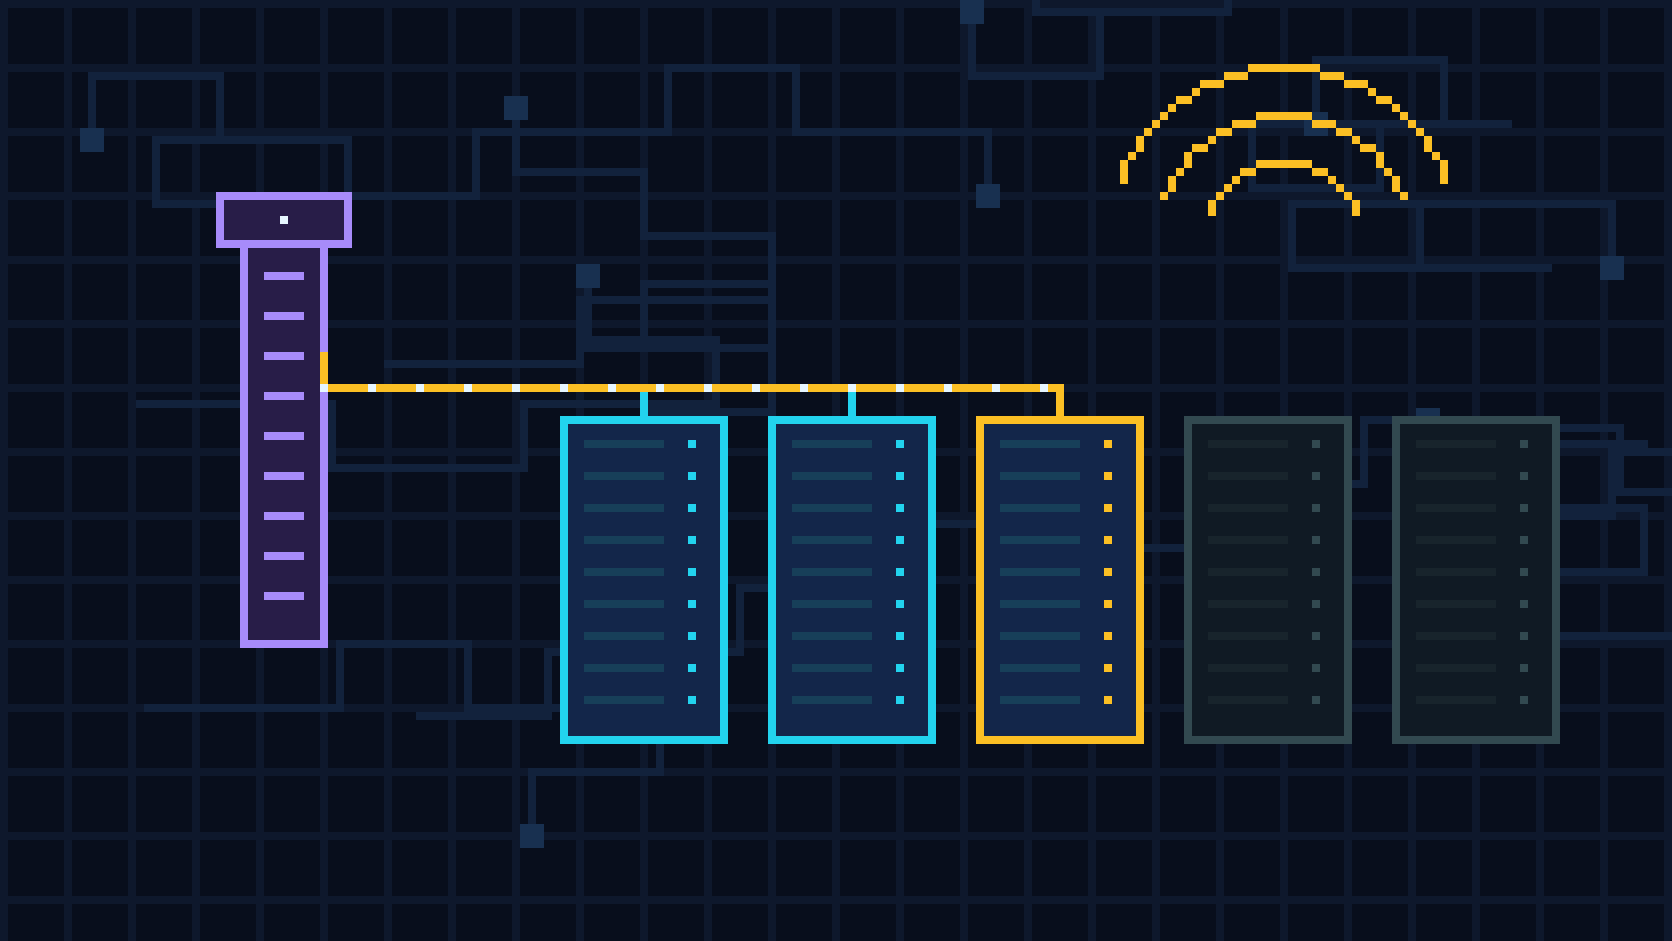
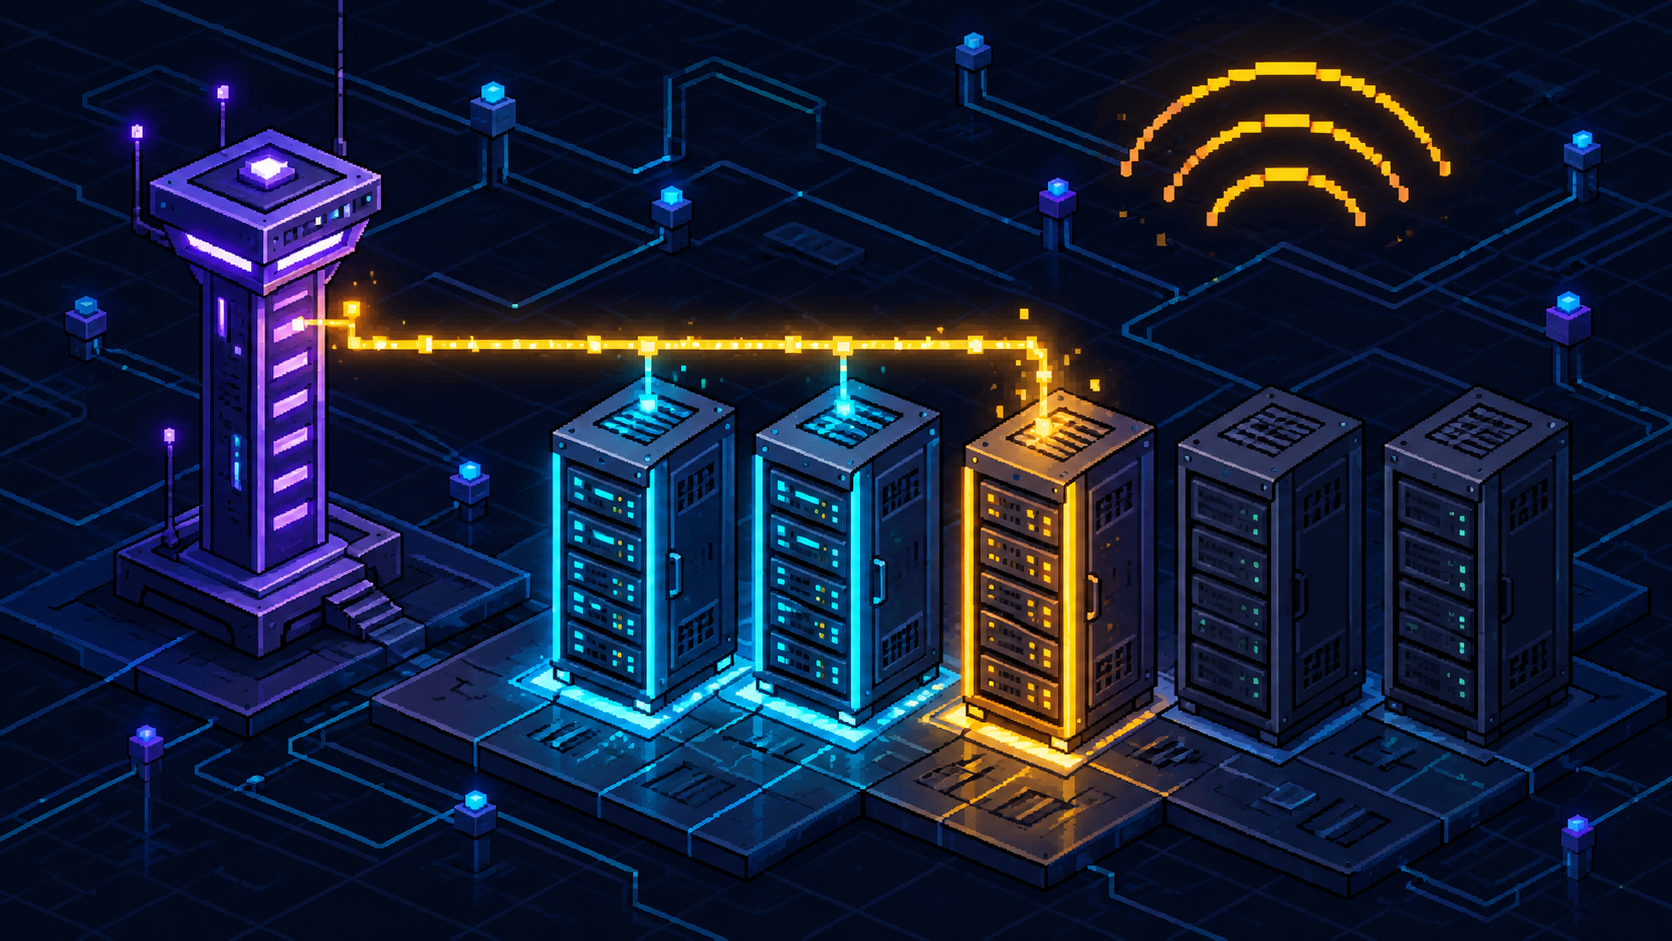
Refresh vCluster series pixel-art covers

diff --git a/content/posts/vcluster-private-nodes-auto-nodes-bare-metal.md b/content/posts/vcluster-private-nodes-auto-nodes-bare-metal.md
@@ -14,14 +14,14 @@ ShowToc: true
 TocOpen: false
 ---
 
-The [first post](/posts/what-is-vcluster-virtual-kubernetes-clusters/) ended on private nodes: machines that join a tenant's own control plane, with nothing shared at the node level.
-
-That raises the practical question. Who finds the machine, installs it, and joins it?
-
 ```text
 Private nodes = the tenant owns real machines, joined straight to its own API
 Auto Nodes    = the Platform orders, installs and joins those machines for you
 ```
+
+The [first post](/posts/what-is-vcluster-virtual-kubernetes-clusters/) ended on private nodes: machines that join a tenant's own control plane, with nothing shared at the node level.
+
+That raises the practical question. Who finds the machine, installs it, and joins it?
 
 This post follows one request from "tenant wants a GPU server" to "node is Ready". The [lab post](/posts/vcluster-bare-metal-gpu-tenant-metal3/) shows the same flow running, with real output.
 

diff --git a/static/images/posts/vcluster-bare-metal/cover-prompt.md b/static/images/posts/vcluster-bare-metal/cover-prompt.md
@@ -1,0 +1,3 @@
+Generated with the built-in imagegen tool using the previous cover as a reference.
+
+Use case: stylized-concept. Asset type: blog cover, landscape 1672 x 941 PNG. Reference image: existing cover concept and palette, redesign with richer cinematic pixel art. Scene: A floating violet control plane above two physical server racks connected by amber cables, one CPU rack and one GPU rack containing four clearly visible glowing cyan accelerator cards. Visually express a tenant receiving its own bare-metal GPU servers. Style: polished 16-bit isometric pixel-art illustration, crisp pixels, dimensional server hardware, carefully composed poster-like landscape, deep midnight-blue background, subtle circuit traces, cyan violet amber illumination, atmospheric but legible at thumbnail scale. No text, letters, numerals, logos, watermark, borders, or panels. Preserve conceptual relationships and established palette. Generate one finished landscape cover.

diff --git a/static/images/posts/vcluster-auto-nodes/cover-prompt.md b/static/images/posts/vcluster-auto-nodes/cover-prompt.md
@@ -1,0 +1,3 @@
+Generated with the built-in imagegen tool using the previous cover as a reference.
+
+Use case: stylized-concept. Asset type: blog cover, landscape 1672 x 941 PNG. Reference image: existing cover concept and palette, redesign with richer cinematic pixel art. Scene: A violet control tower sending an amber provisioning beam toward a pool of physical server racks, two machines lighting up bright cyan, one in the process of powering on in amber, and two dark idle racks. Visually express automatic server allocation. Style: polished 16-bit isometric pixel-art illustration, crisp pixels, dimensional server hardware, carefully composed poster-like landscape, deep midnight-blue background, subtle circuit traces, cyan violet amber illumination, atmospheric but legible at thumbnail scale. No text, letters, numerals, logos, watermark, borders, or panels. Preserve conceptual relationships and established palette. Generate one finished landscape cover.

diff --git a/static/images/posts/vcluster-basics/cover-prompt.md b/static/images/posts/vcluster-basics/cover-prompt.md
@@ -1,0 +1,3 @@
+Generated with the built-in imagegen tool using the previous cover as a reference.
+
+Use case: stylized-concept. Asset type: blog cover, landscape 1672 x 941 PNG. Reference image: existing cover concept and palette, redesign with richer cinematic pixel art. Scene: Three small independent glowing Kubernetes-style control towers, one cyan, one violet, one amber, each linked to its own two worker cubes, all hosted within one large server rack. Visually express independent tenant clusters on shared infrastructure. Style: polished 16-bit isometric pixel-art illustration, crisp pixels, dimensional server hardware, carefully composed poster-like landscape, deep midnight-blue background, subtle circuit traces, cyan violet amber illumination, atmospheric but legible at thumbnail scale. No text, letters, numerals, logos, watermark, borders, or panels. Preserve conceptual relationships and established palette. Generate one finished landscape cover.

diff --git a/content/posts/what-is-vcluster-virtual-kubernetes-clusters.md b/content/posts/what-is-vcluster-virtual-kubernetes-clusters.md
@@ -14,12 +14,12 @@ ShowToc: true
 TocOpen: false
 ---
 
-Every platform team hits the same question sooner or later: when a new team or customer arrives, do they get a namespace or a whole cluster?
-
 ```text
 Namespace per tenant = cheap, but one shared API, one set of CRDs
 vCluster per tenant  = its own Kubernetes API, running as a pod
 ```
+
+Every platform team hits the same question sooner or later: when a new team or customer arrives, do they get a namespace or a whole cluster?
 
 **vCluster** sits between those two options. This post explains what it is and how the pieces work. A [second post](/posts/vcluster-private-nodes-auto-nodes-bare-metal/) covers private nodes and bare-metal servers, and a [third one](/posts/vcluster-bare-metal-gpu-tenant-metal3/) walks through a lab I built where a tenant gets real (simulated) servers by itself.
 
